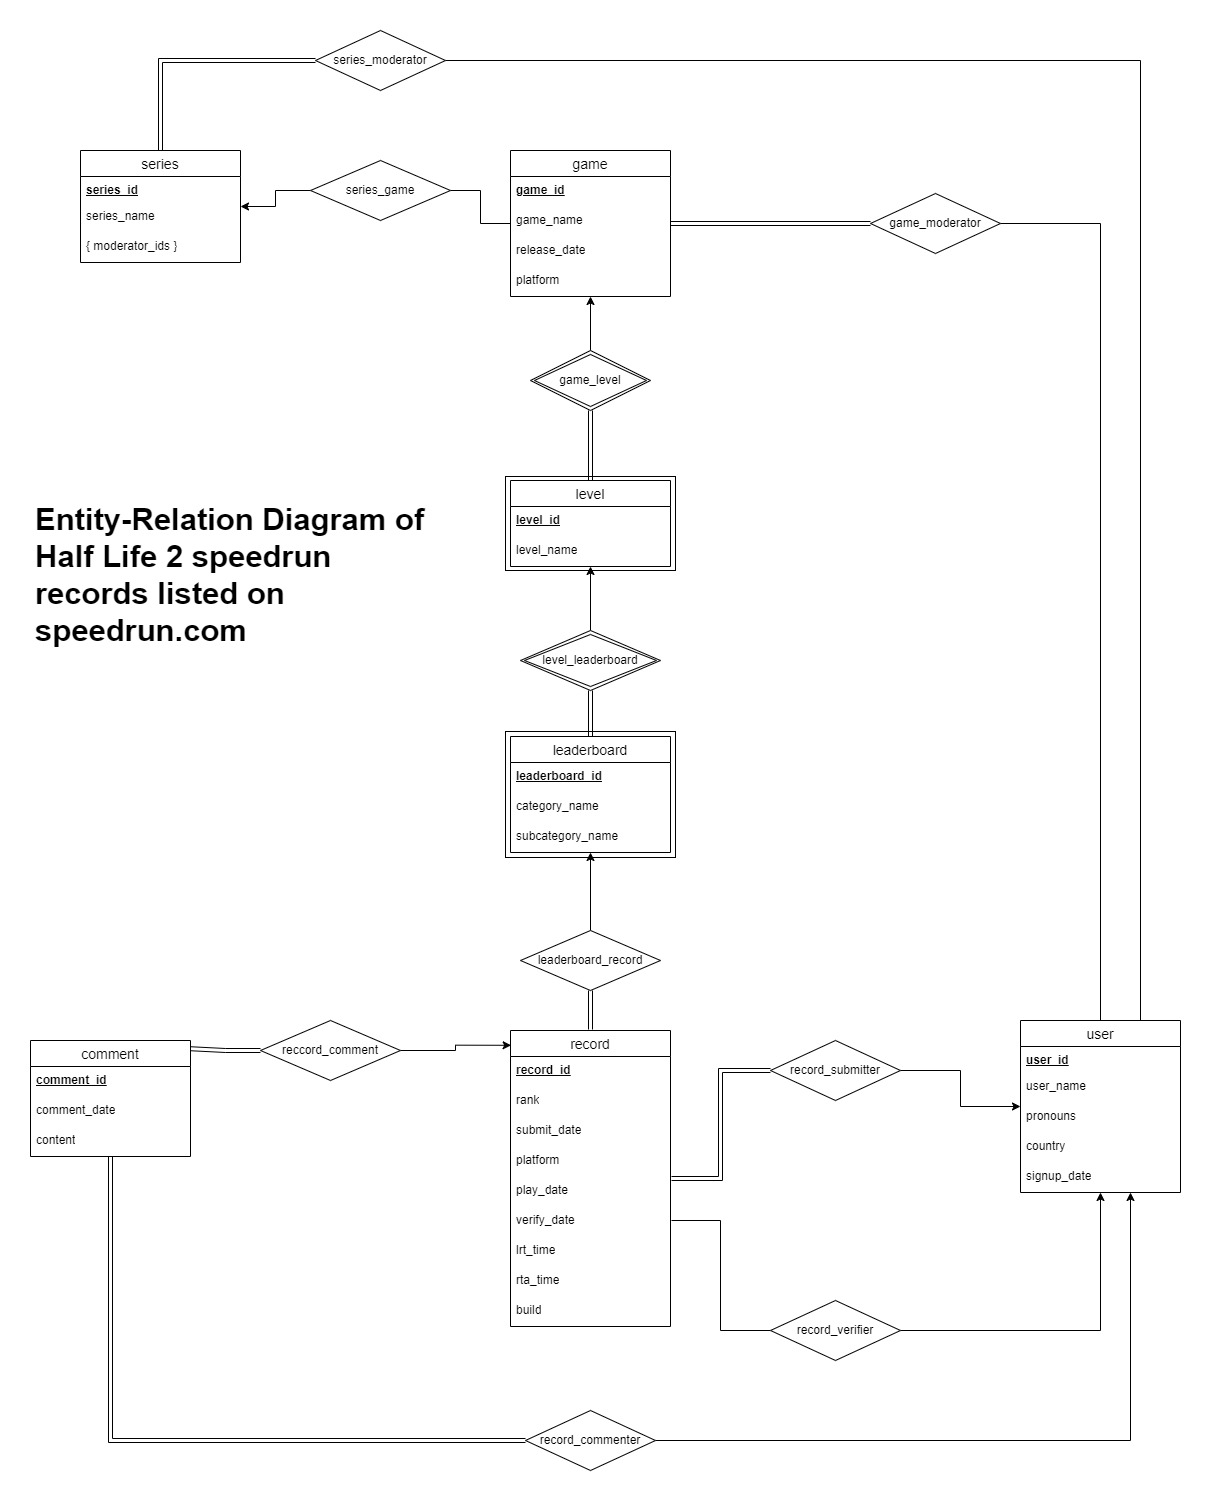
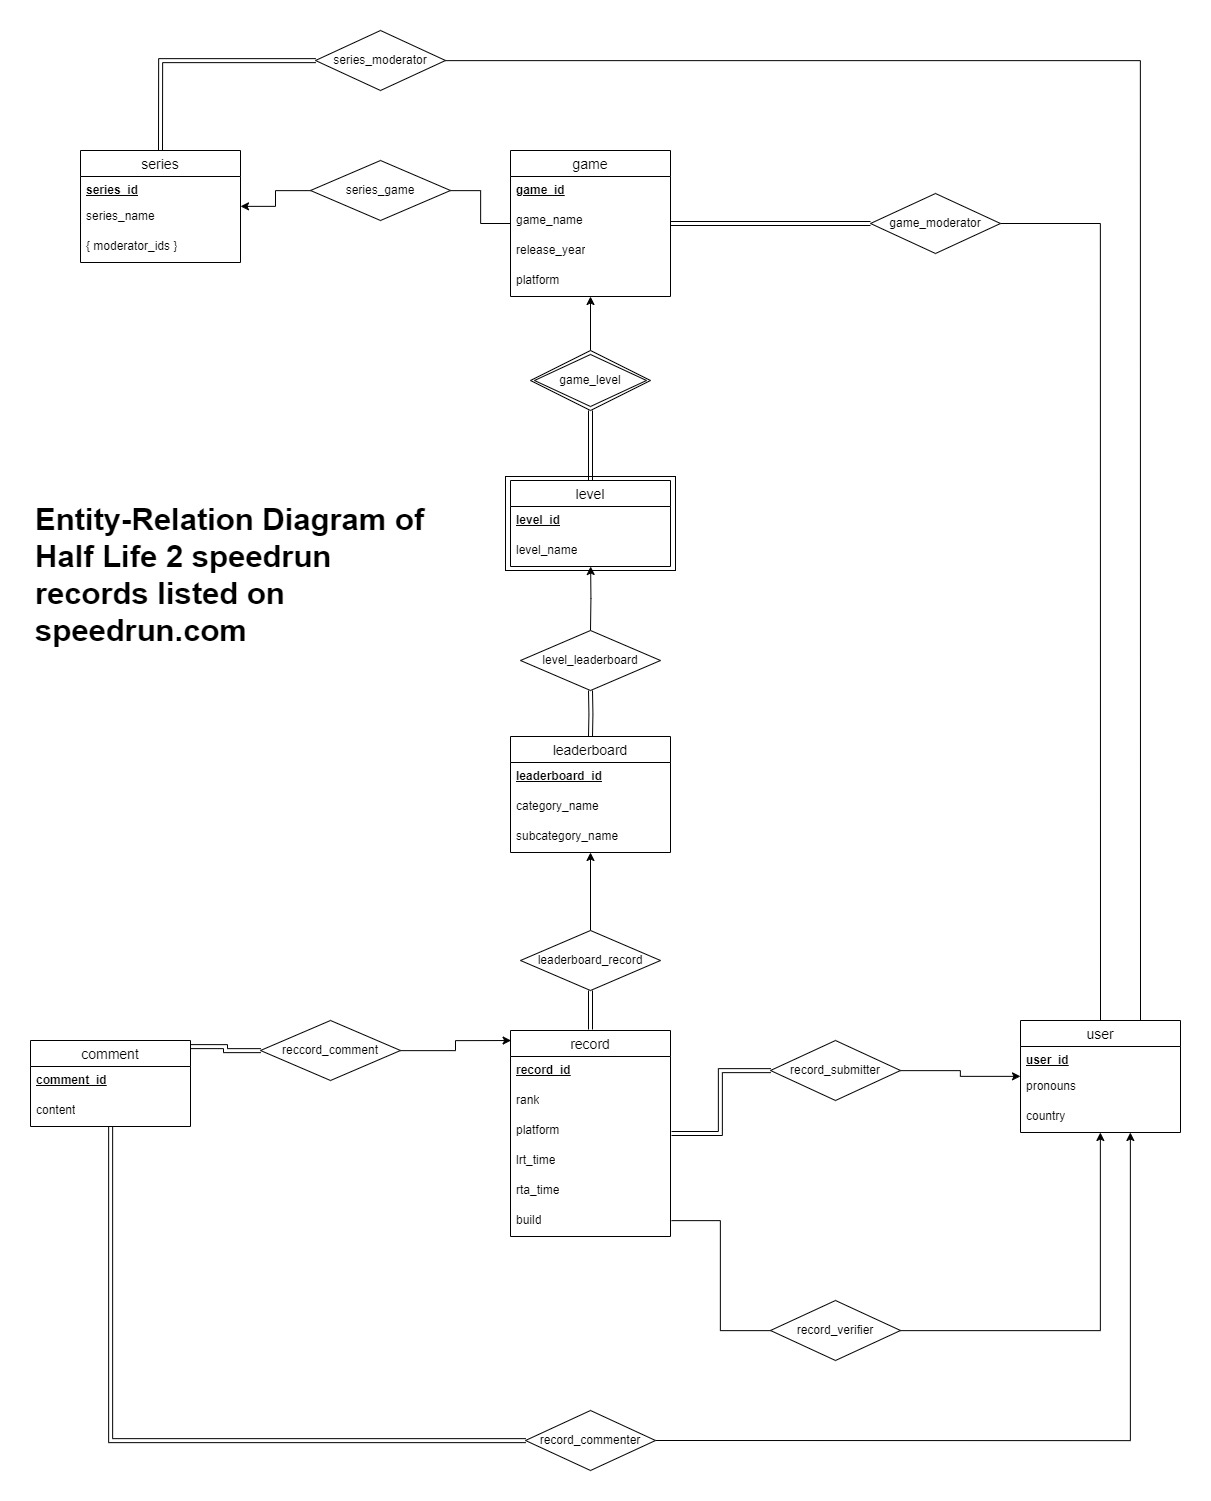
feat: readme & diagram fix

diff --git a/README.md b/README.md
@@ -12,90 +12,96 @@
   <br>
 </h2>
 
+## Description
 
-## Spesifikasi
+_Author (NIM):_ Rinaldy Adin (13521134)
+_Data Source:_ https://www.speedrun.com/hl2
+_Chosen Data:_ Half Life 2 speedrun records
+_Chosen DBMS:_ PostgreSQL
 
-### Data Scraping
+From the Half-Life 2 leaderboard on https://www.speedrun.com, I chose to scrape the top 3 records for the game, including the different categories and subcategories, and likewise for the records of the first 3 levels of the game. The program also crawls the series page of Half Life, each player and moderator found, and each page of the scraped records.
 
-1. Lakukan _data scraping_ dari sebuah laman web untuk memperoleh data atau informasi tertentu __TANPA MENGGUNAKAN API__. Hasil _data scraping_ ini nantinya akan disimpan dalam RDBMS.
+## Specifications
 
-2. Daftarkan judul topik yang akan dijadikan bahan _data scraping_ dan DBMS yang akan digunakan pada spreadsheet berikut: [Topik Data Scraping](https://docs.google.com/spreadsheets/d/1D49SykkryzOAI1Fk9YI_-YpEV2lBw-p0_ZiRieGe0xQ/edit?usp=sharing). Usahakan agar tidak ada peserta dengan topik yang sama. Akses edit ke spreadsheet akan ditutup tanggal __1 Juli 2023 pukul 21.40 WIB.__
+The program in `main.py` crawls and scrapes https://www.speedrun.com/hl2, using selenium to take control of a chrome web browser in order to be able to generate the needed data in the page, as a single GET request won't be able to generate the needed data. The program will then scrape the needed information for the page, store the data, and then continue to crawl the website until all needed data is scraped. Finally, the program will generate `.json` files containing the data for each relation/table.
 
-3. Pada folder `Data Scraping`, calon warga basdat harus mengumpulkan _file script_, json hasil _data scraping_. Folder `Data Scraping` terdiri dari _folder_ `src`, `data` dan `screenshots`. 
-    - _Folder_ `src` berisi _file script_/kode yang __*WELL DOCUMENTED* dan *CLEAN CODE*__.
-    - _Folder_ `data` berisi _file_ json hasil _scraper_.
-    - _Folder_ `screenshot` berisi tangkapan layar program.
+In order to easily import the generated data into an Postgres Database, `to_csv.py` could be run in order to generate `.csv` files from the prior `.json` files.
 
-4. Sebagai referensi untuk mengenal _data scraping_, asisten menyediakan dokumen "_Short Guidance To Data Scraping_" yang dapat diakses pada link berikut: [Data Scraping Guidance](https://docs.google.com/document/d/1vEyAK1HIkM792oIuwR4Li2xOodmAcCXxentCCivxxkw/edit?usp=sharing). Peserta diharapkan untuk memperhatikan etika dalam melakukan _scraping_.
+## How to Use
 
-5. Data yang diperoleh harus di-_preprocessing_ terlebih dahulu.
-```
-Preprocessing contohnya :
-- Cleaning
-- Parsing
-- Transformation
-- dan lainnya
-```
+1. Create a python virtual environment in the root of this project, using the following commands
+   `python -m venv`
 
-### Database Modelling & Data Storing
+2. Install required packages from `requirements.txt` into the virtual environment
+   `pip i -r requirements.txt`
 
-1. Dari data _scraping_ yang sudah dilakukan, lakukan __pengembangan *database*__ dalam bentuk ERD kemudian __translasi ERD tersebut menjadi diagram relasional.__ Tambahkan tabel lain yang sekiranya berkaitan dengan tabel-tabel yang didapatkan dari _data scraping_ yang dilakukan.
-   
-2. Implementasikan skema relational diagram tersebut ke __RDBMS__ sesuai pilihan peserta. __DBMS No-SQL tidak akan diterima.__ Jangan lupa implementasikan _constraints (primary key, foreign key,_ dsb) pada _database_ yang dibuat.
+3. Move the current directory into the `src` folder
+   `cd Data\ Scraping/src/`
 
-3. Masukkan data hasil _scraping_ ke dalam RDBMS yang sudah dibuat. Tambahan tabel pada skema yang dibuat tidak perlu diisi dengan data _dummy_ (cukup dibiarkan kosong).
+4. Run the main scraping program
+   `python main.py`
 
-4. Tools yang digunakan __dibebaskan__ pada peserta.
+5. Run the json to csv converter
+   `python to_csv.py`
 
-5. Pada folder `Data Storing`, Calon warga basdat harus mengumpulkan bukti penyimpanan data pada DBMS. _Folder_ `Data Storing` terdiri dari folder `screenshots`, `export`, dan `design`.
-    - _Folder_ `screenshot` berisi tangkapan layar bukti dari penyimpanan data ke RDBMS.
-    - _Folder_ `export` berisi _file_ hasil _export_ dari DBMS dengan format `.sql`.
-    -  _Folder_ `design` berisi ER Diagram dan diagram relasional yang disimpan dalam format `.png`
+6. Import csv files into database
 
+## JSON Structure (Some Examples)
 
-### Bonus
-Task berikut bersifat tidak wajib (__BONUS__), boleh dikerjakan sebagian atau seluruhnya.
-
-- Buatlah visualisasi data dalam bentuk _dashboard_ (dari data hasil _scraping_ saja) dan jelaskan apa _insights_ yang didapatkan dari visualisasi data tersebut. _Tools_ untuk melakukan visualisasi data ini dibebaskan pada peserta.
-
-### Pengumpulan
-
-
-1. Dalam mengerjakan tugas, calon warga basdat terlebih dahulu melakukan _fork_ project github pada link berikut: [Seleksi-2023-Tugas-1](https://github.com/wargabasdat/Seleksi-2023-Tugas-1). Sebelum batas waktu pengumpulan berakhir, calon warga basdat harus sudah melakukan _pull request_ dengan nama ```TUGAS_SELEKSI_1_[NIM]```
-
-2. Tambahkan juga `.gitignore` pada _file_ atau _folder_ yang tidak perlu di-_upload_. __NB: BINARY TIDAK DIUPLOAD__
-
-3. Berikan satu buah file `README` yang __WELL DOCUMENTED__ dengan cara __override__ _file_ `README.md` ini. `README` harus minimal memuat konten :
-
+#### Record
 
 ```
-- Description of the data and DBMS (Why you choose it)
-- Specification of the program
-- How to use
-- JSON Structure
-- Database Structure (ERD and relational diagram)
-- Explanation of ERD to relational diagram translation process
-- Screenshot program (di-upload pada folder screenshots, di-upload file image nya, dan ditampilkan di dalam README)
-- Reference (Library used, etc)
-- Author
+...
+{
+    "record_id": "zq1r359m",
+    "submitter_id": "SpeedyQ",
+    "leaderboard_id": "l824pw25-onv4p5nm.zqomgv41",
+    "rank": 4,
+    "platform": "PC",
+    "lrt_time": "46m 19s 096ms",
+    "rta_time": "59m 04s 033ms",
+    "build": ""
+},
+...
 ```
 
+#### Game
 
-4. Deadline pengumpulan tugas 1 adalah <span style="color:red">__17 Juli 2023 Pukul 22.40 WIB__</span>
+```
+{
+  "games": [
+    {
+      "game_id": "hl2",
+      "game_name": "Half-Life 2",
+      "release_year": "2004",
+      "platform": "PC"
+    }
+  ]
+}
+```
 
-<h3 align="center">
-  <br>
-  Selamat Mengerjakan!
-  <br>
-</h3>
+## Database Structure
 
-<p align="center">
-  <i>
-  Happiness does not come from doing easy work
-  but from the afterglow of satisfaction that
-  comes after the achievement of a difficult
-  task that demanded our best.<br><br>
-  - Theodore Isaac Rubin
-  </i>
-</p>
-<br>
+### ER Diagram
+
+![ER Diagram](./Data%20Storing/design/ER%20Diagram.jpg)
+
+### Relational Diagram
+
+![Relational Diagram](./Data%20Storing/design/Relational%20Diagram.jpg)
+
+#### ERD to Relational translation process
+
+Based on the developed ER Diagram, the first step in the translation process is removing total many-to-one relations and substituting the relation into an attribute on the enity on the many side. That translation process was applied to the relation `record_comment`, `record_commenter`, `record_submitter`, `leaderboard_record`, `level_leaderboard`, `game_moderator`, and `series_moderator`. The other step to do is to convert the weak entity `level` by doing a similar process to the first step. Finally, the remaining entities and relations are converted into tables.
+
+## Screenshots
+
+![](./Data%20Scraping/screenshot/screenshot.png)
+![](./Data%20Storing/screenshot/Data%20Screenshot.png)
+![](./Data%20Storing/screenshot/Relational%20Diagram%20Screenshot.png)
+![](./Data%20Storing/screenshot/Shell%20Screenshot.png)
+
+## References
+
+![How to use selenium with python](https://selenium-python.readthedocs.io/index.html)
+![Beautiful soup documentation](https://www.crummy.com/software/BeautifulSoup/bs4/doc/)
